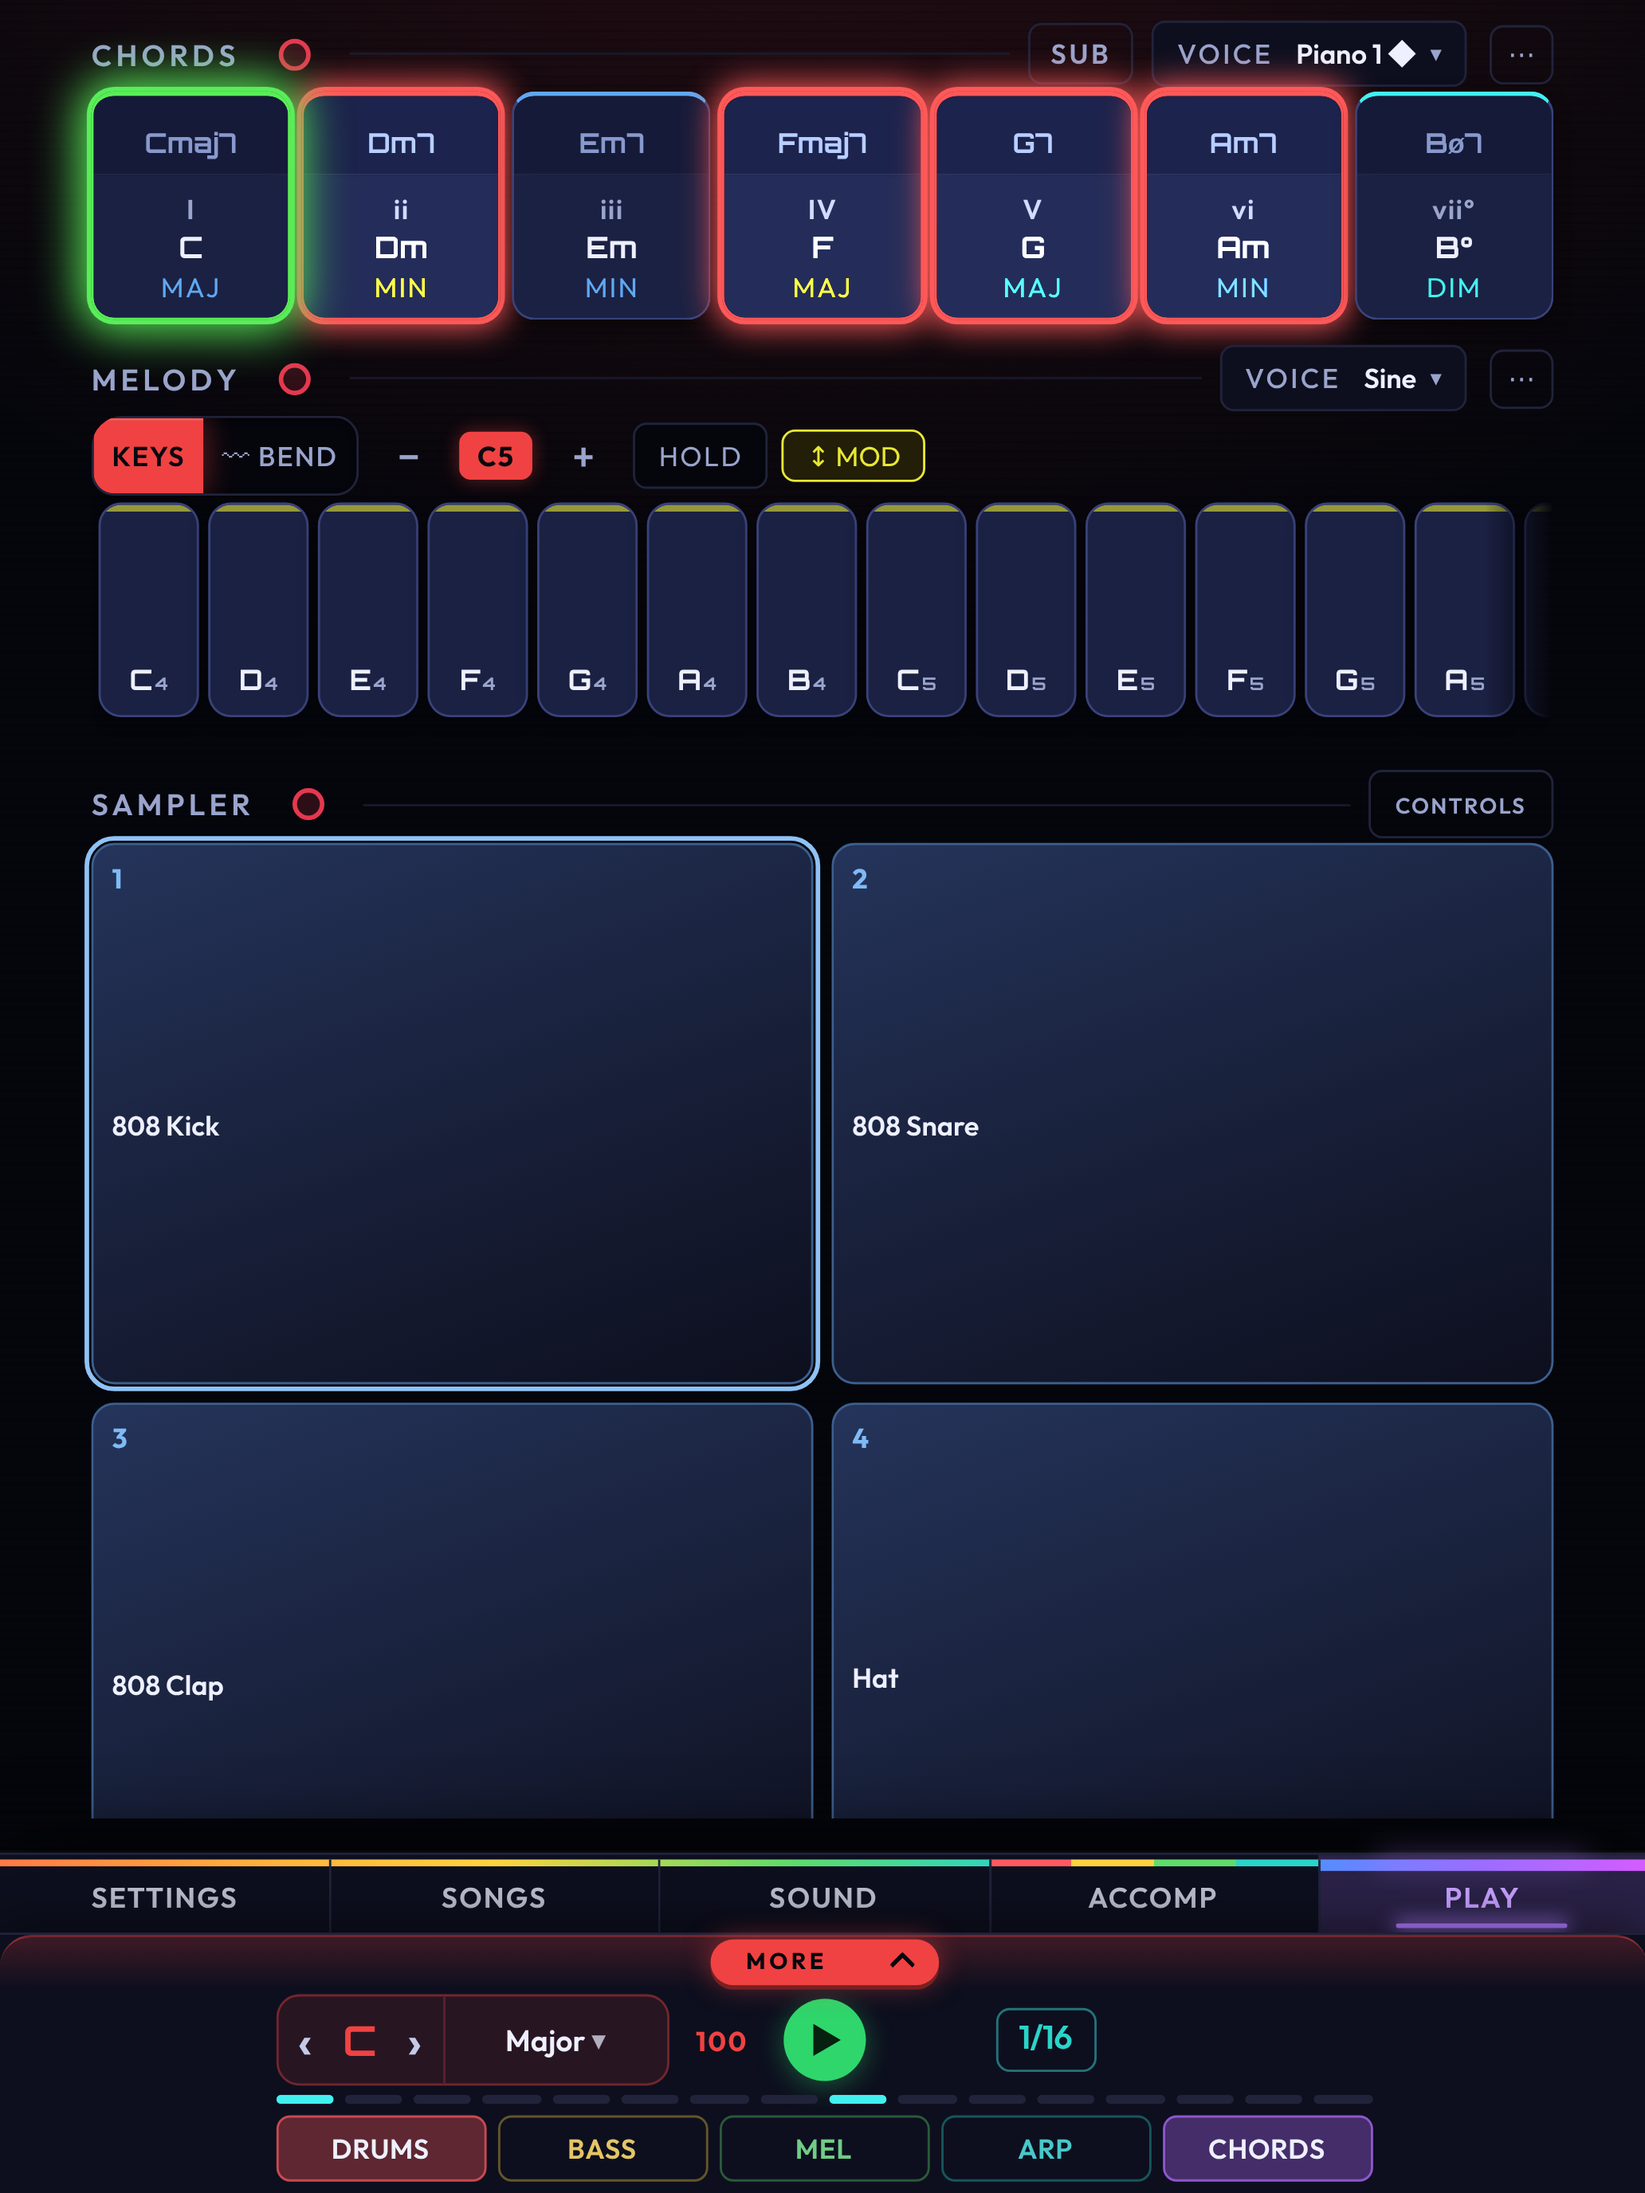
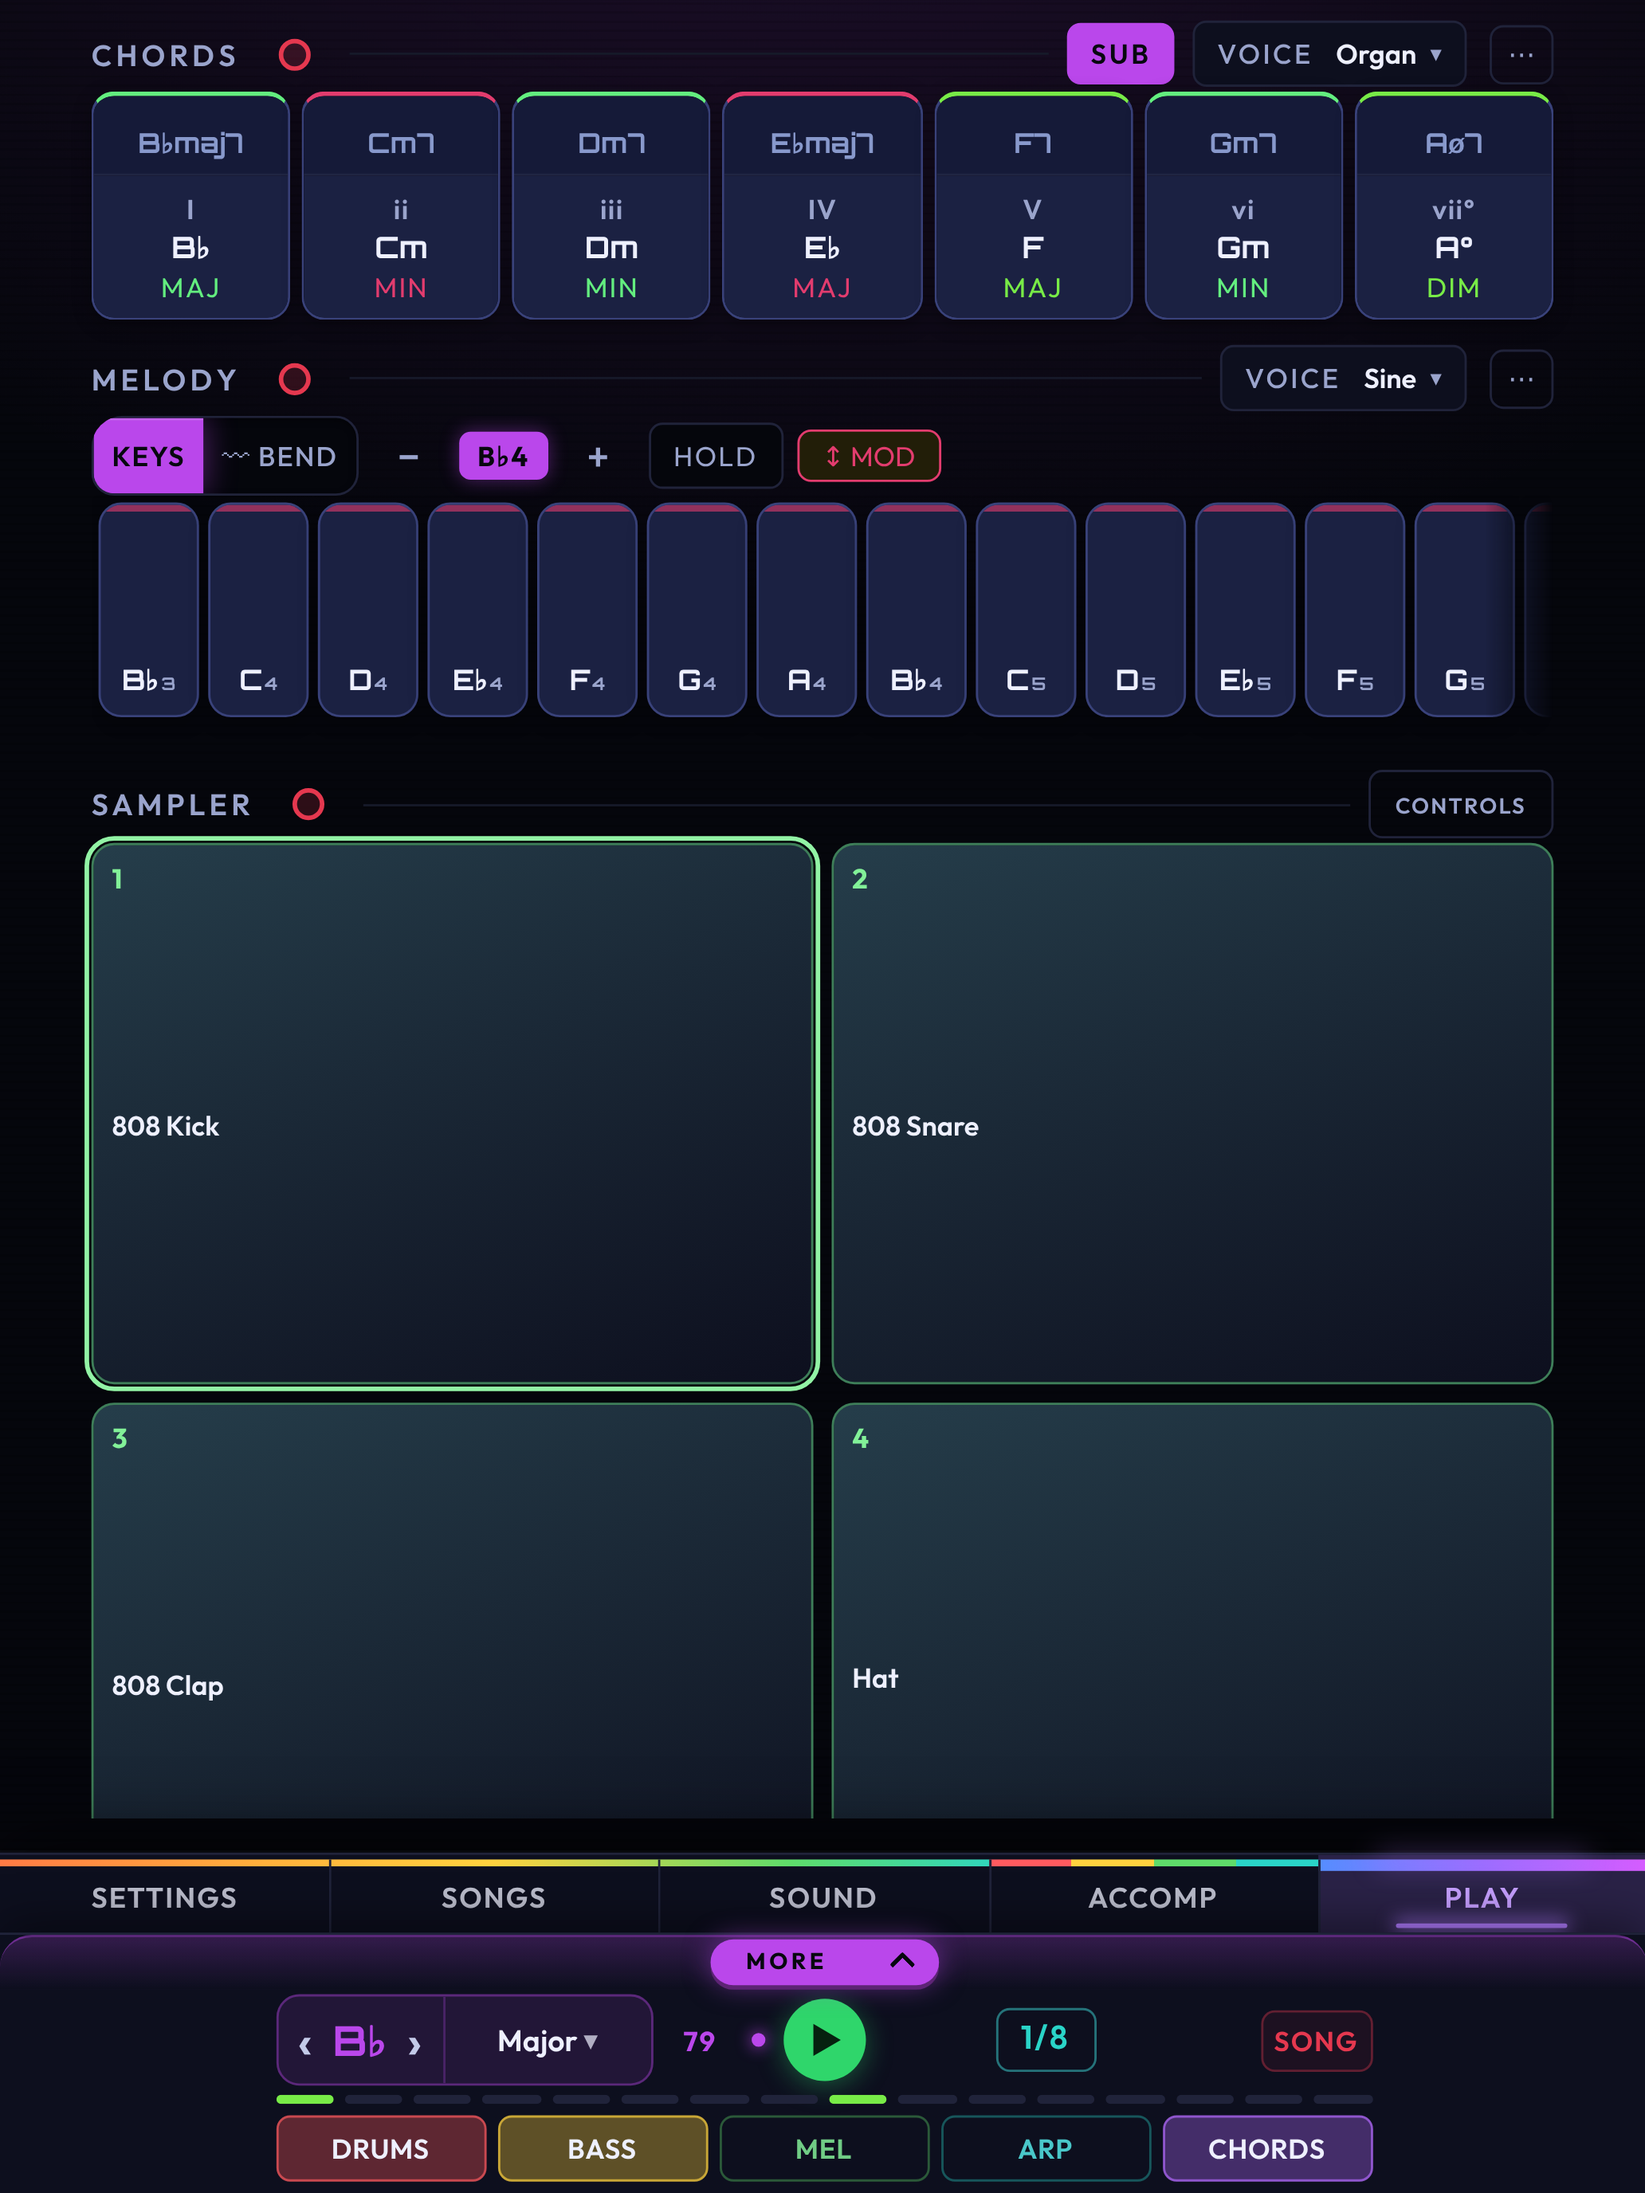
App Store kit: retake screenshots with real content (Random) instead of empty screens
The first set showed "No songs saved yet" and a blank progression. Pressing
Random on the splash screen fills the app with a song, a drum pattern and a
coloured chord row; both the 6.9in and 13in sets are retaken that way and the
Songs and Sound shots swap places (04-songs, 05-sound).

Claude-Session: https://claude.ai/code/session_01Tw9QE15Kg11x3F7Ei6vjop

diff --git a/docs/app-store.md b/docs/app-store.md
@@ -149,18 +149,18 @@ the app genuinely plays music in the background, which the note above says.
 
 `docs/app-store/screenshots/` holds five at **1320 x 2868**, the 6.9" iPhone
 size, which is the one App Store Connect requires (smaller iPhone sizes are
-scaled from it). They are captures of the build at 4.9.9.9.9.7.7j, taken in a phone-sized browser rather than on a device.
+scaled from it). They are captures of the build at 4.9.9.9.9.7.7j, taken in a phone-sized browser rather than on a device, after pressing Random on the splash screen so every screen has a song, a drum pattern and a chord row in it rather than an empty state.
 
 | file | shows |
 |---|---|
 | `6.9in-01-splash.png` | the splash screen |
-| `6.9in-02-play.png` | Play: chord pads, melody keys, sampler |
-| `6.9in-03-accomp.png` | Accomp: drum sequencer |
-| `6.9in-04-sound.png` | Sound: the mixer |
-| `6.9in-05-songs.png` | Songs: the song builder |
+| `6.9in-02-play.png` | Play: coloured chord pads, melody keys, sampler |
+| `6.9in-03-accomp.png` | Accomp: a drum pattern on the step sequencer |
+| `6.9in-04-songs.png` | Songs: a song with a chord progression |
+| `6.9in-05-sound.png` | Sound: the mixer |
 
 The same five for iPad are in the same folder as `13in-01-splash.png` to
-`13in-05-songs.png`, at **2064 x 2752**, the 13" iPad size App Store Connect
+`13in-05-sound.png`, at **2064 x 2752**, the 13" iPad size App Store Connect
 requires because the app ships for iPad (`TARGETED_DEVICE_FAMILY = "1,2"`;
 smaller iPad sizes are scaled from it). Upload the `6.9in-` set under iPhone 6.9"
 and the `13in-` set under iPad 13".
